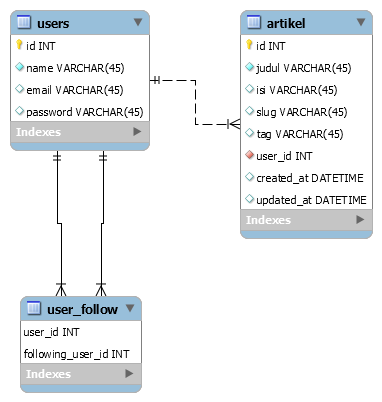
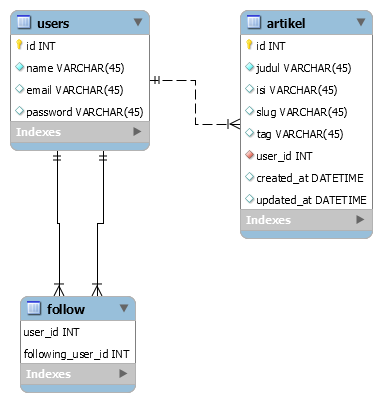
tambah migrations artikel dan follow

Changed region(s): [[0.1152, 0.5672, 0.3743, 0.9851]]

diff --git a/database/migrations/2020_07_05_031133_create_follow_table.php b/database/migrations/2020_07_05_031133_create_follow_table.php
@@ -14,7 +14,10 @@ class CreateFollowTable extends Migration
     public function up()
     {
         Schema::create('follow', function (Blueprint $table) {
-            $table->bigIncrements('id');
+            $table->unsignedBigInteger('user_id');
+            $table->unsignedBigInteger('follow_user_id');
+            $table->foreign('user_id')->reference('id')->on('users')->onDelete('cascade');
+            $table->foreign('follow_user_id')->reference('id')->on('users')->onDelete('cascade');
             $table->timestamps();
         });
     }

diff --git a/database/migrations/2020_07_05_031029_create_artikel_table.php b/database/migrations/2020_07_05_031029_create_artikel_table.php
@@ -20,7 +20,7 @@ class CreateArtikelTable extends Migration
             $table->string('slug');
             $table->string('tag');
             $table->unsignedBigInteger('user_id');
-            $table->foreign('user_id')->reference('id')->on('users')->ondele
+            $table->foreign('user_id')->reference('id')->on('users')->onDelete('cascade');
             $table->timestamps();
         });
     }

diff --git a/resources/views/index.blade.php b/resources/views/index.blade.php
@@ -6,7 +6,7 @@
       <h6 class="m-0 font-weight-bold text-primary">Rancangan ERD</h6>
     </div>
     <div class="card-body">
-    <img src="{{asset('cms.png')}}" alt="">
+    <img src="{{asset('cms.png')}}" class="img-fluid mx-auto d-block" alt="Responsive image">
     </div>
   </div>
 
